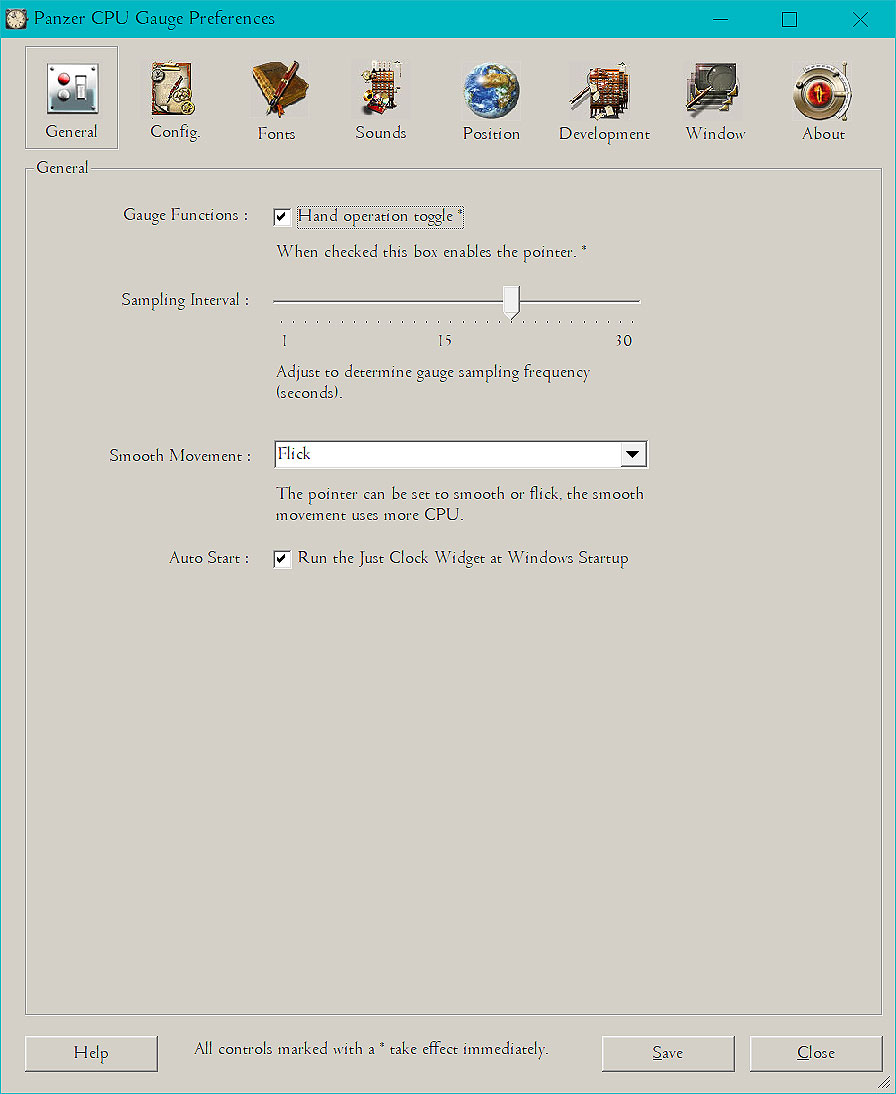
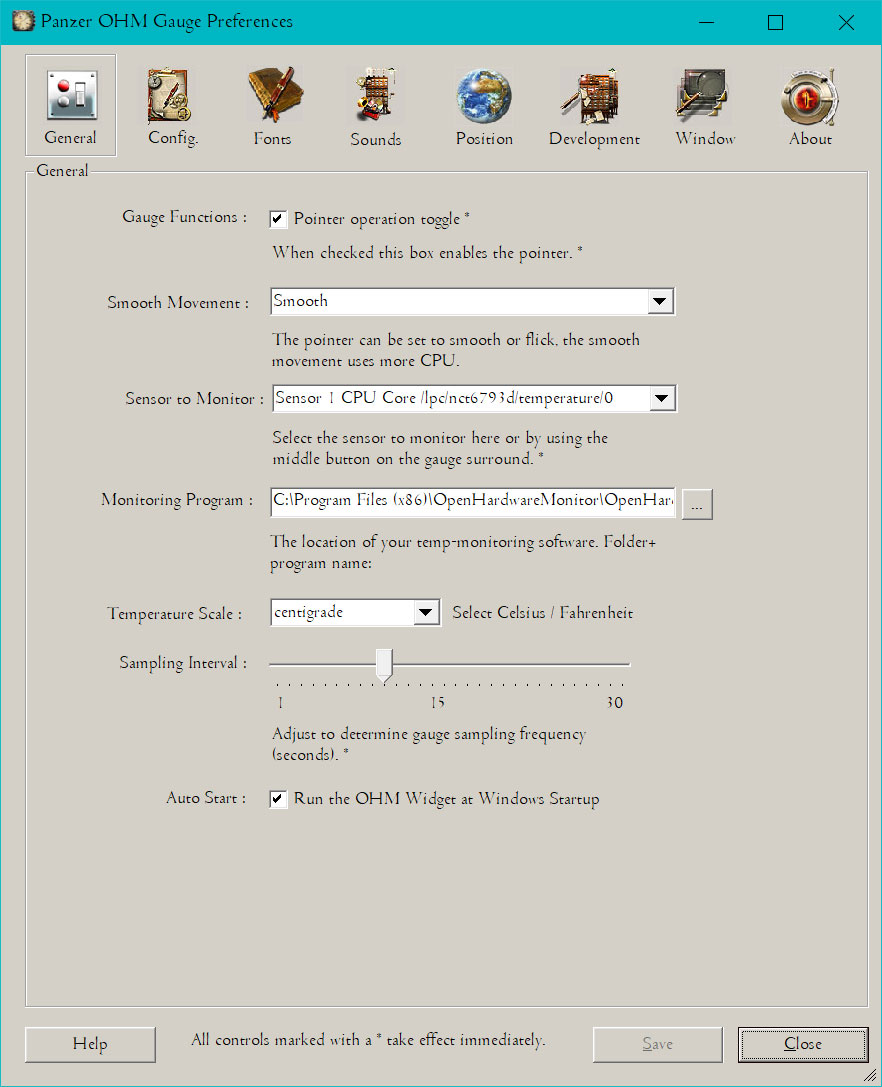
Help update

diff --git a/help/Panzer OHM Gauge.html b/help/Panzer OHM Gauge.html
@@ -663,22 +663,30 @@ You can enable or disable the smooth
 pointer&nbsp;functionality.&nbsp;</span><span style="color: rgb(0, 0, 0); font-family: &quot;Times New Roman&quot;; font-size: medium; font-style: normal; font-weight: 400; letter-spacing: normal; orphans: 2; text-align: left; text-indent: 0px; text-transform: none; white-space: normal; widows: 2; word-spacing: 0px; display: inline ! important; float: none;">T</span><span style="color: rgb(0, 0, 0); font-family: &quot;Times New Roman&quot;; font-size: medium; font-style: normal; font-weight: 400; letter-spacing: normal; orphans: 2; text-align: left; text-indent: 0px; text-transform: none; white-space: normal; widows: 2; word-spacing: 0px; display: inline ! important; float: none;">his
 will
 slightly increase CPU usage as it forces the widget to use a more
-frequent timer that works on a 20ms access time, when placing the hands</span><span style="color: rgb(0, 0, 0); font-family: &quot;Times New Roman&quot;; font-size: medium; font-style: normal; font-weight: 400; letter-spacing: normal; orphans: 2; text-align: left; text-indent: 0px; text-transform: none; white-space: normal; widows: 2; word-spacing: 0px; display: inline ! important; float: none;">.&nbsp;</span><span style="color: rgb(0, 0, 0); font-family: &quot;Times New Roman&quot;; font-size: medium; font-style: normal; font-weight: 400; letter-spacing: normal; orphans: 2; text-align: left; text-indent: 0px; text-transform: none; white-space: normal; widows: 2; word-spacing: 0px; display: inline ! important; float: none;"></span><span style="color: rgb(0, 0, 0); font-family: &quot;Times New Roman&quot;; font-size: medium; font-style: normal; font-weight: 400; letter-spacing: normal; orphans: 2; text-align: left; text-indent: 0px; text-transform: none; white-space: normal; widows: 2; word-spacing: 0px; display: inline ! important; float: none;">On
-modern systems the CPU usage of this widget is negligible less being
-than 0.1%. As a result&nbsp;the
-overhead can be safely ignored. The function to disable the widget is
-merely here to replicate the functionality of the Yahoo and Xwidget
+frequent timer that works on a 20ms access time, when placing the pointer.</span><span style="color: rgb(0, 0, 0); font-family: &quot;Times New Roman&quot;; font-size: medium; font-style: normal; font-weight: 400; letter-spacing: normal; orphans: 2; text-align: left; text-indent: 0px; text-transform: none; white-space: normal; widows: 2; word-spacing: 0px; display: inline ! important; float: none;"> </span><span style="color: rgb(0, 0, 0); font-family: &quot;Times New Roman&quot;; font-size: medium; font-style: normal; font-weight: 400; letter-spacing: normal; orphans: 2; text-align: left; text-indent: 0px; text-transform: none; white-space: normal; widows: 2; word-spacing: 0px; display: inline ! important; float: none;"></span><span style="color: rgb(0, 0, 0); font-family: &quot;Times New Roman&quot;; font-size: medium; font-style: normal; font-weight: 400; letter-spacing: normal; orphans: 2; text-align: left; text-indent: 0px; text-transform: none; white-space: normal; widows: 2; word-spacing: 0px; display: inline ! important; float: none;">On
+modern systems the CPU usage of this widget is negligible,&nbsp;being
+</span><span style="color: rgb(0, 0, 0); font-family: &quot;Times New Roman&quot;; font-size: medium; font-style: normal; font-weight: 400; letter-spacing: normal; orphans: 2; text-align: left; text-indent: 0px; text-transform: none; white-space: normal; widows: 2; word-spacing: 0px; display: inline ! important; float: none;">less </span><span style="color: rgb(0, 0, 0); font-family: &quot;Times New Roman&quot;; font-size: medium; font-style: normal; font-weight: 400; letter-spacing: normal; orphans: 2; text-align: left; text-indent: 0px; text-transform: none; white-space: normal; widows: 2; word-spacing: 0px; display: inline ! important; float: none;">than
+0.1%. As a result&nbsp;the
+overhead can be safely ignored. Note that the function to disable the
+widget is&nbsp; here to replicate the functionality of the Yahoo and
+Xwidget
 versions of this widget. <br>
-
 <br>
-
-The sampling interval controls the frequency with which the program
-will request a OHM usage update from the o/s. Three to five second
+</span><span style="font-weight: bold;"><span style="font-family: &quot;Times New Roman&quot;;">Sensor to Monitor </span></span><span style="color: rgb(0, 0, 0); font-family: &quot;Times New Roman&quot;; font-size: medium; font-style: normal; font-weight: 400; letter-spacing: normal; orphans: 2; text-align: left; text-indent: 0px; text-transform: none; white-space: normal; widows: 2; word-spacing: 0px; display: inline ! important; float: none;">This
+dropdown displays a list of sensors that Open Hardware Monitor has
+recognised. Simply select the sensor that you wish to monitor.</span><br>
+<span style="color: rgb(0, 0, 0); font-family: &quot;Times New Roman&quot;; font-size: medium; font-style: normal; font-weight: 400; letter-spacing: normal; orphans: 2; text-align: left; text-indent: 0px; text-transform: none; white-space: normal; widows: 2; word-spacing: 0px; display: inline ! important; float: none;"><br>
+</span><span style="font-weight: bold;"><span style="font-family: &quot;Times New Roman&quot;;"> Monitoring Program </span></span><span style="color: rgb(0, 0, 0); font-family: &quot;Times New Roman&quot;; font-size: medium; font-style: normal; font-weight: 400; letter-spacing: normal; orphans: 2; text-align: left; text-indent: 0px; text-transform: none; white-space: normal; widows: 2; word-spacing: 0px; display: inline ! important; float: none;">This field contains the location of &nbsp;the </span><span style="color: rgb(0, 0, 0); font-family: &quot;Times New Roman&quot;; font-size: medium; font-style: normal; font-weight: 400; letter-spacing: normal; orphans: 2; text-align: left; text-indent: 0px; text-transform: none; white-space: normal; widows: 2; word-spacing: 0px; display: inline ! important; float: none;">Open Hardware Monitor binary. In future versions you will be able to select either Libre or Open</span><span style="color: rgb(0, 0, 0); font-family: &quot;Times New Roman&quot;; font-size: medium; font-style: normal; font-weight: 400; letter-spacing: normal; orphans: 2; text-align: left; text-indent: 0px; text-transform: none; white-space: normal; widows: 2; word-spacing: 0px; display: inline ! important; float: none;"> Hardware Monitor to perform the monitoring. For the moment just choose OHM.</span><br>
+<span style="color: rgb(0, 0, 0); font-family: &quot;Times New Roman&quot;; font-size: medium; font-style: normal; font-weight: 400; letter-spacing: normal; orphans: 2; text-align: left; text-indent: 0px; text-transform: none; white-space: normal; widows: 2; word-spacing: 0px; display: inline ! important; float: none;"><br>
+</span><span style="font-weight: bold;"><span style="font-family: &quot;Times New Roman&quot;;">Temperature Scale&nbsp;</span></span><span style="color: rgb(0, 0, 0); font-family: &quot;Times New Roman&quot;; font-size: medium; font-style: normal; font-weight: 400; letter-spacing: normal; orphans: 2; text-align: left; text-indent: 0px; text-transform: none; white-space: normal; widows: 2; word-spacing: 0px; display: inline ! important; float: none;">Select your chosen scale for temperature measurement, celsius or fahrenheit.</span><br>
+<span style="color: rgb(0, 0, 0); font-family: &quot;Times New Roman&quot;; font-size: medium; font-style: normal; font-weight: 400; letter-spacing: normal; orphans: 2; text-align: left; text-indent: 0px; text-transform: none; white-space: normal; widows: 2; word-spacing: 0px; display: inline ! important; float: none;">
+<br>
+</span><span style="font-weight: bold;"><span style="font-family: &quot;Times New Roman&quot;;">Sampling Interval </span></span><span style="color: rgb(0, 0, 0); font-family: &quot;Times New Roman&quot;; font-size: medium; font-style: normal; font-weight: 400; letter-spacing: normal; orphans: 2; text-align: left; text-indent: 0px; text-transform: none; white-space: normal; widows: 2; word-spacing: 0px; display: inline ! important; float: none;">The sampling interval controls the frequency with which the program
+will inquire the WMI repository for temperature data. A ten to fifteen second
 interval is sensible.<br>
 
 <br>
-
-The auto start option allows the widget to automatically run on system
+</span><span style="font-weight: bold;"><span style="font-family: &quot;Times New Roman&quot;;">Auto Start </span></span><span style="color: rgb(0, 0, 0); font-family: &quot;Times New Roman&quot;; font-size: medium; font-style: normal; font-weight: 400; letter-spacing: normal; orphans: 2; text-align: left; text-indent: 0px; text-transform: none; white-space: normal; widows: 2; word-spacing: 0px; display: inline ! important; float: none;">The auto start option allows the widget to automatically run on system
 restart. The program is very slimline and will have little or no impact
 on system startup times.<br>
 
